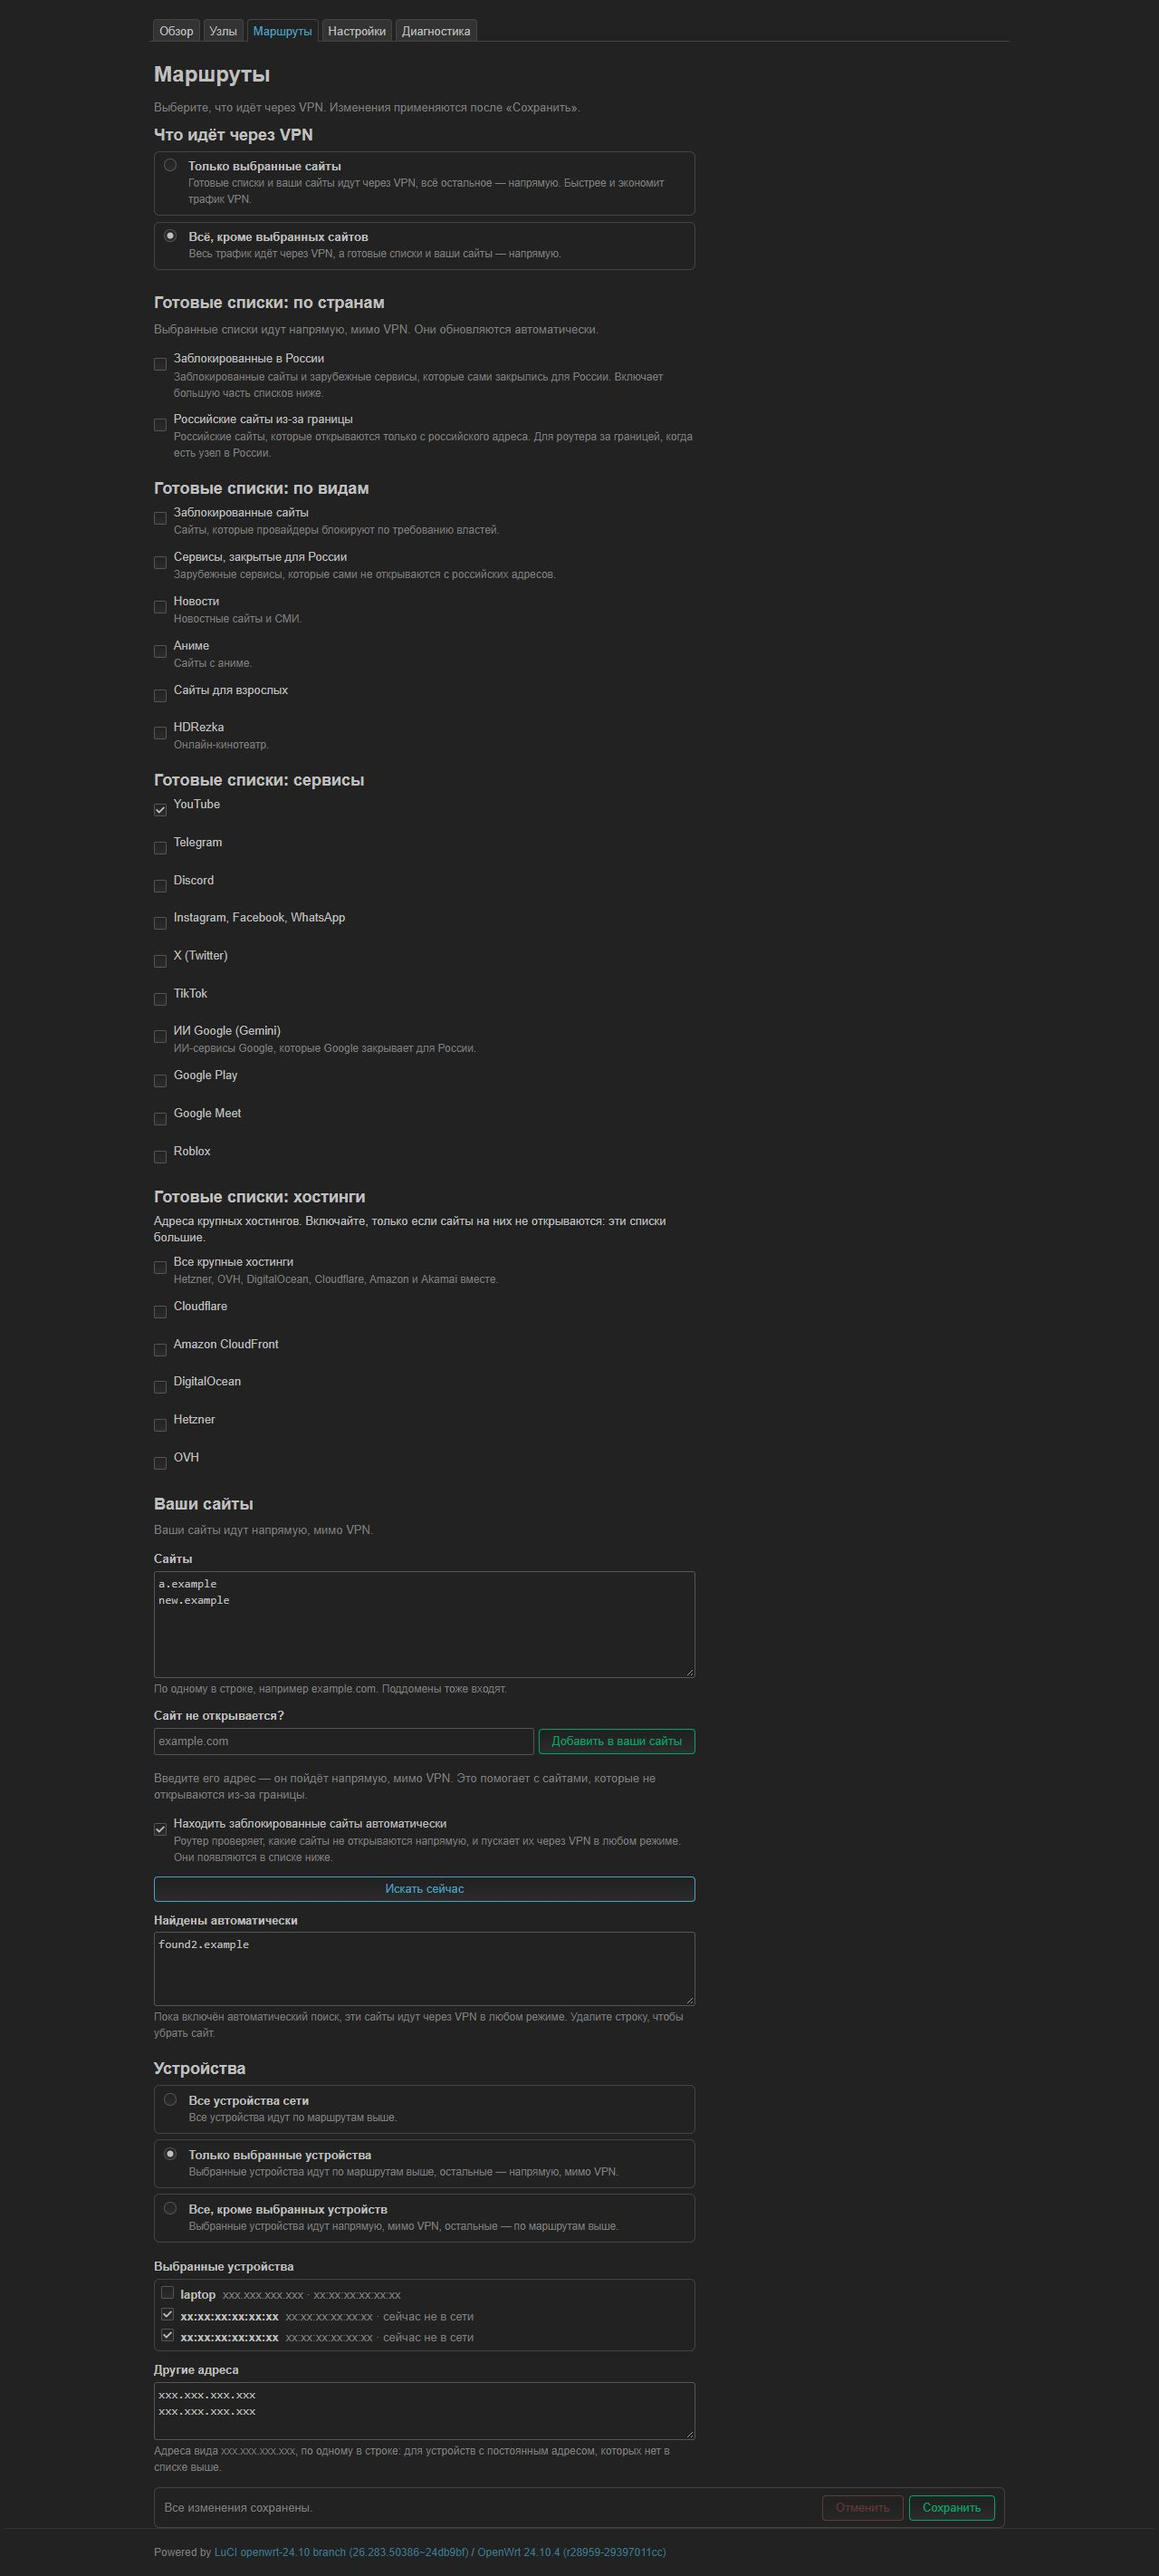
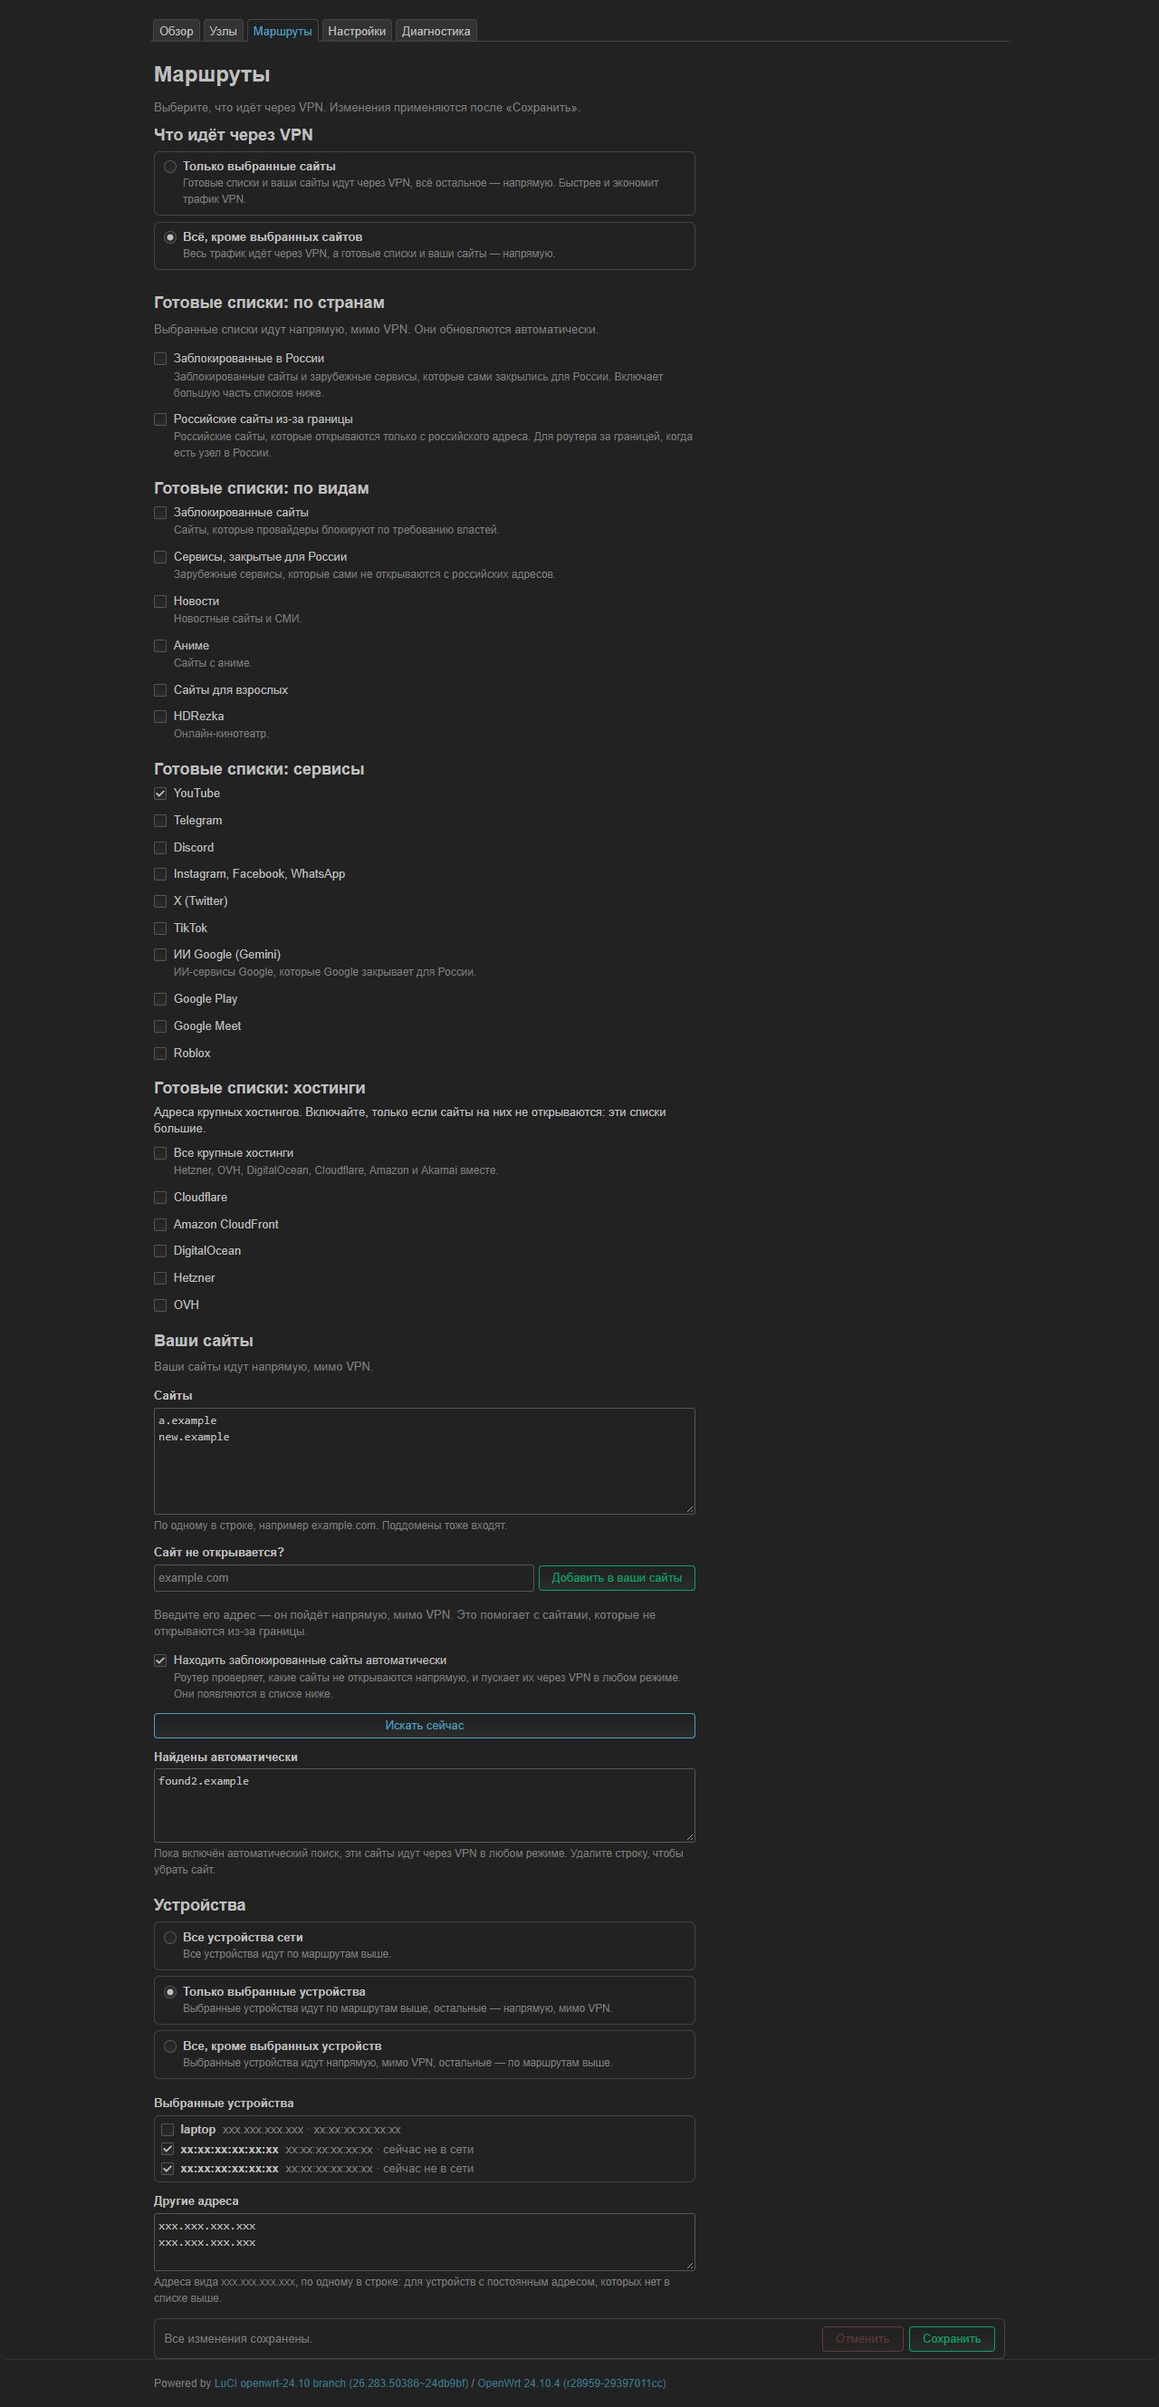
fix(ui): checkboxes and radios centred on the first line of their label; version 2.0.2
Measured (box centre - first text line centre): form checkboxes +6.5 px -> +0.5,
radio cards -1.5 -> +0.5, the device list -2.5 -> 0, at 1280 and 375 px. The box sits
in a cell one text line high; the pick list keeps it on the first line of a long name.
Screenshots retaken.

diff --git a/package/luci-app-vpnpool/files/www/luci-static/resources/vpnpool/common.js b/package/luci-app-vpnpool/files/www/luci-static/resources/vpnpool/common.js
@@ -461,7 +461,10 @@ var CSS = [
 	'.vp-savebar{position:sticky;bottom:0;z-index:100;display:flex;flex-wrap:wrap;align-items:center;justify-content:flex-end;gap:.5em;box-sizing:border-box;max-width:100%;margin:1em 0 0;padding:.6em .8em;border:1px solid var(--border-color-medium,GrayText);border-radius:6px;background:var(--background-color-high,Canvas);color:var(--text-color-high,CanvasText)}',
 	'.vp-savebar-state{flex:1 1 12em;min-width:0;color:var(--text-color-medium,GrayText)}',
 	'.vp-savebar.vp-dirty .vp-savebar-state{color:var(--warn-color-high,var(--warning-color,inherit));font-weight:bold}',
-	'.vp-cards .cbi-radio{display:flex;align-items:flex-start;gap:.5em;box-sizing:border-box;max-width:100%;margin:0 0 .5em;padding:.6em .8em;border:1px solid var(--border-color-medium,GrayText);border-radius:6px;cursor:pointer}',
+	'.vp-cards .cbi-radio{display:grid;grid-template-columns:auto minmax(0,1fr);grid-template-rows:1.4em auto;grid-template-rows:1lh auto;column-gap:.5em;box-sizing:border-box;max-width:100%;margin:0 0 .5em;padding:.6em .8em;border:1px solid var(--border-color-medium,GrayText);border-radius:6px;cursor:pointer}',
+	// the radio sits in a box one text line high, centred on the first line of its title
+	'.vp-cards .cbi-radio>input,.vp-cards .cbi-radio>label{grid-column:1;grid-row:1;align-self:center;margin:0}',
+	'.vp-cards .cbi-radio>span{grid-column:2;grid-row:1 / span 2;min-width:0}',
 	'.vp-cards br{display:none}',
 	'.vp-card-text{display:block;min-width:0;overflow-wrap:anywhere}',
 	'.vp-card-text b{display:block}',
@@ -469,6 +472,7 @@ var CSS = [
 	'.vp-hint{margin:.2em 0}',
 	'.vp-devlist{max-height:18em;overflow:auto;box-sizing:border-box;max-width:100%;padding:.3em .5em;border:1px solid var(--border-color-medium,GrayText);border-radius:6px}',
 	'.vp-dev{display:flex;flex-wrap:wrap;align-items:baseline;gap:0 .6em;padding:.25em 0;min-width:0}',
+	'.vp-dev>input[type=checkbox]{align-self:center;margin:0}',
 	'.vp-dev-name{font-weight:bold;overflow-wrap:anywhere;min-width:0}',
 	'.vp-dev-meta{color:var(--text-color-medium,GrayText);overflow-wrap:anywhere;min-width:0}',
 	'.vp-inline{display:flex;flex-wrap:wrap;align-items:center;gap:.4em;max-width:100%}',
@@ -487,7 +491,7 @@ var CSS = [
 	'.vp-page .cbi-section .cbi-value[data-widget="CBI.FlagValue"]{grid-template-columns:auto minmax(0,1fr);column-gap:.6em;row-gap:0;align-items:start}',
 	'.vp-page .cbi-section .cbi-value[data-widget="CBI.FlagValue"]>.cbi-value-field{display:contents}',
 	'.vp-page .cbi-section .cbi-value[data-widget="CBI.FlagValue"]>.cbi-value-title{grid-column:2;grid-row:1;font-weight:normal;cursor:pointer}',
-	'.vp-page .cbi-section .cbi-value[data-widget="CBI.FlagValue"] .cbi-checkbox{grid-column:1;grid-row:1 / span 2;align-self:start;margin:0}',
+	'.vp-page .cbi-section .cbi-value[data-widget="CBI.FlagValue"] .cbi-checkbox{grid-column:1;grid-row:1 / span 2;align-self:start;margin:0;display:flex;align-items:center;min-height:0;height:1.4em;height:1lh}',
 	'.vp-page .cbi-section .cbi-value[data-widget="CBI.FlagValue"] .cbi-value-description{grid-column:2;grid-row:2;margin:.1em 0 0}',
 	'.vp-page .cbi-section .cbi-value[data-widget="CBI.FlagValue"] .vp-field-error-text{grid-column:2}',
 	'.vp-page .cbi-section-descr{max-width:46em}',

diff --git a/package/luci-app-vpnpool/files/www/luci-static/resources/view/vpnpool/nodes.js b/package/luci-app-vpnpool/files/www/luci-static/resources/view/vpnpool/nodes.js
@@ -70,7 +70,10 @@ var CSS = [
 	'.vp-add-mode{max-width:100%;box-sizing:border-box}',
 	'.vp-add-pick,.vp-pick-box{flex:1 1 100%;min-width:0}',
 	'.vp-pick-list{max-height:16em;overflow:auto;margin:.3em 0;padding:.2em .4em;border:1px solid var(--border-color-low,rgba(128,128,128,.3));border-radius:4px}',
-	'.vp-pick-item{display:flex;align-items:center;gap:.5em;padding:.2em 0;min-width:0;cursor:pointer}',
+	'.vp-pick-item{display:flex;align-items:flex-start;gap:.5em;padding:.2em 0;min-width:0;cursor:pointer}',
+	// the box sits in a cell one text line high: centred on the FIRST line of a name that wraps
+	'.vp-cb{flex:0 0 auto;display:flex;align-items:center;height:1.4em;height:1lh}',
+	'.vp-cb>input{margin:0}',
 	'.vp-pick-item span{overflow-wrap:anywhere;min-width:0}',
 	'.vp-pick-tools{display:flex;flex-wrap:wrap;gap:.4em;align-items:center}',
 	'.vp-add-result{margin:.5em 0;overflow-wrap:anywhere}',
@@ -293,7 +296,7 @@ function pickList(res, checked) {
 		cb.checked = !!checked(n);
 		boxes.push({ cb: cb, n: n });
 		return E('label', { 'class': 'vp-pick-item' }, [
-			cb,
+			E('span', { 'class': 'vp-cb' }, [ cb ]),
 			E('span', {}, [ n.tag || n.id ]),
 			E('span', { 'class': 'vp-muted' }, [ [ n.server, (n.delay != null && n.delay > 0) ? _('%d ms').format(n.delay) : _('no answer') ].filter(Boolean).join(' · ') ])
 		]);
@@ -1104,7 +1107,7 @@ return view.extend({
 			list.disable(allBox.checked);
 			allBox.addEventListener('change', function() { list.disable(allBox.checked); });
 			dom.content(box, [
-				E('label', { 'class': 'vp-pick-item' }, [ allBox, E('span', {}, _('Take every node of the subscription, new ones too')) ]),
+				E('label', { 'class': 'vp-pick-item' }, [ E('span', { 'class': 'vp-cb' }, [ allBox ]), E('span', {}, _('Take every node of the subscription, new ones too')) ]),
 				list.el
 			]);
 			saveBtn.disabled = false;
